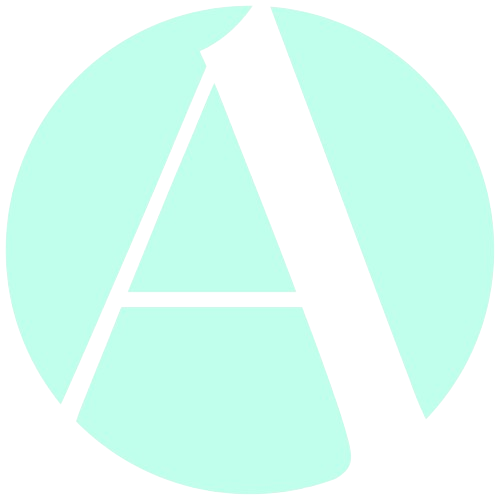
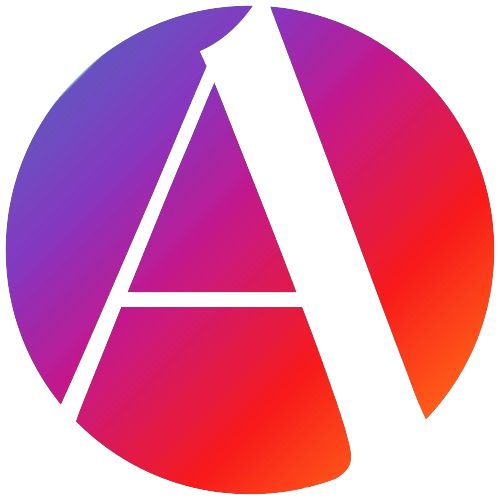
Updates #12 Commit by @arfazhxss on Wed 31 Jan 2024

diff --git a/design-3 (current)/index.html b/design-3 (current)/index.html
@@ -174,7 +174,7 @@
 					class="row d-flex justify-content-center align-items-center justify-content-lg-center align-items-lg-center navrow">
 					<div class="col d-flex d-md-flex align-items-center align-items-md-center">
 						<div id="logo-1"><a href="https://www.arfazhxss.ca/"><img class="rounded-circle img-fluid"
-									id="arfazhxsse" src="/assets/img/arfazhxsse-1.webp" width="37"
+									id="arfazhxsse" src="/assets/img/arfazhxsse-2.webp" width="37"
 									style="margin-left: -8px;" height="37"></a></div>
 					</div>
 					<div
@@ -610,7 +610,7 @@
 	<!-- <div class="container d-flex justify-content-center"><img class="img-fluid" src="/assets/img/ban.png" width="10"
 			style="margin-bottom: 7px;" loading="lazy"></div> -->
 	<div class="container d-flex justify-content-center align-items-center align-items-lg-center" style="height: 5px;">
-		<p class="smallfont" style="font-size: 10px;">Proudly from <img class="img-fluid" src="/assets/img/ban.png" width="10"
+		<p class="smallfont" style="font-size: 10px;">From Bangladesh <img class="img-fluid" src="/assets/img/ban.png" width="10"
 				loading="lazy" style="margin-bottom: 1px;" /></p>
 	</div>
 	<section class="d-flex justify-content-center align-items-center">
